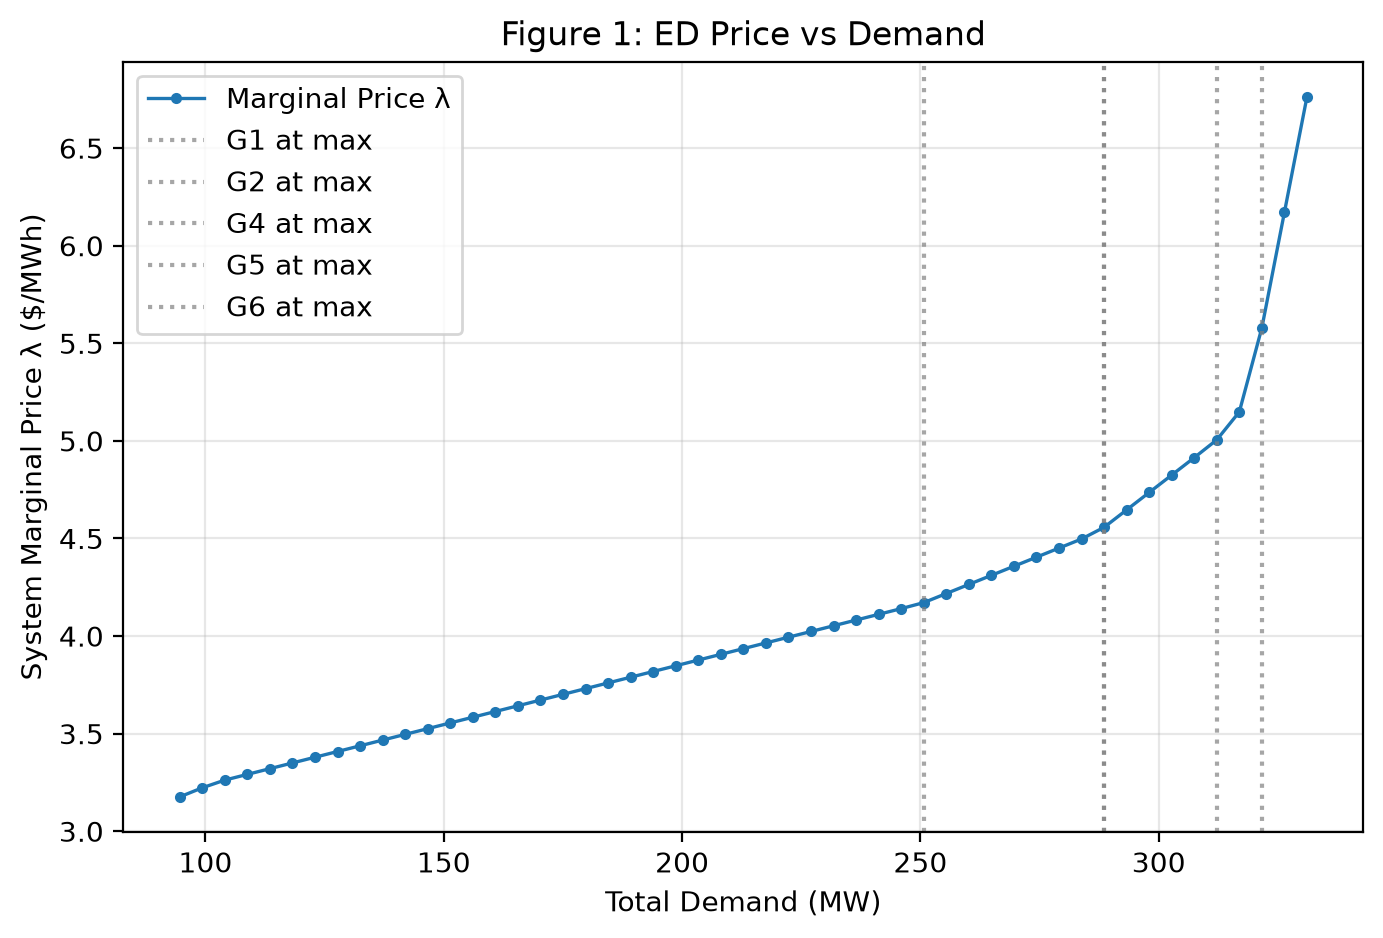
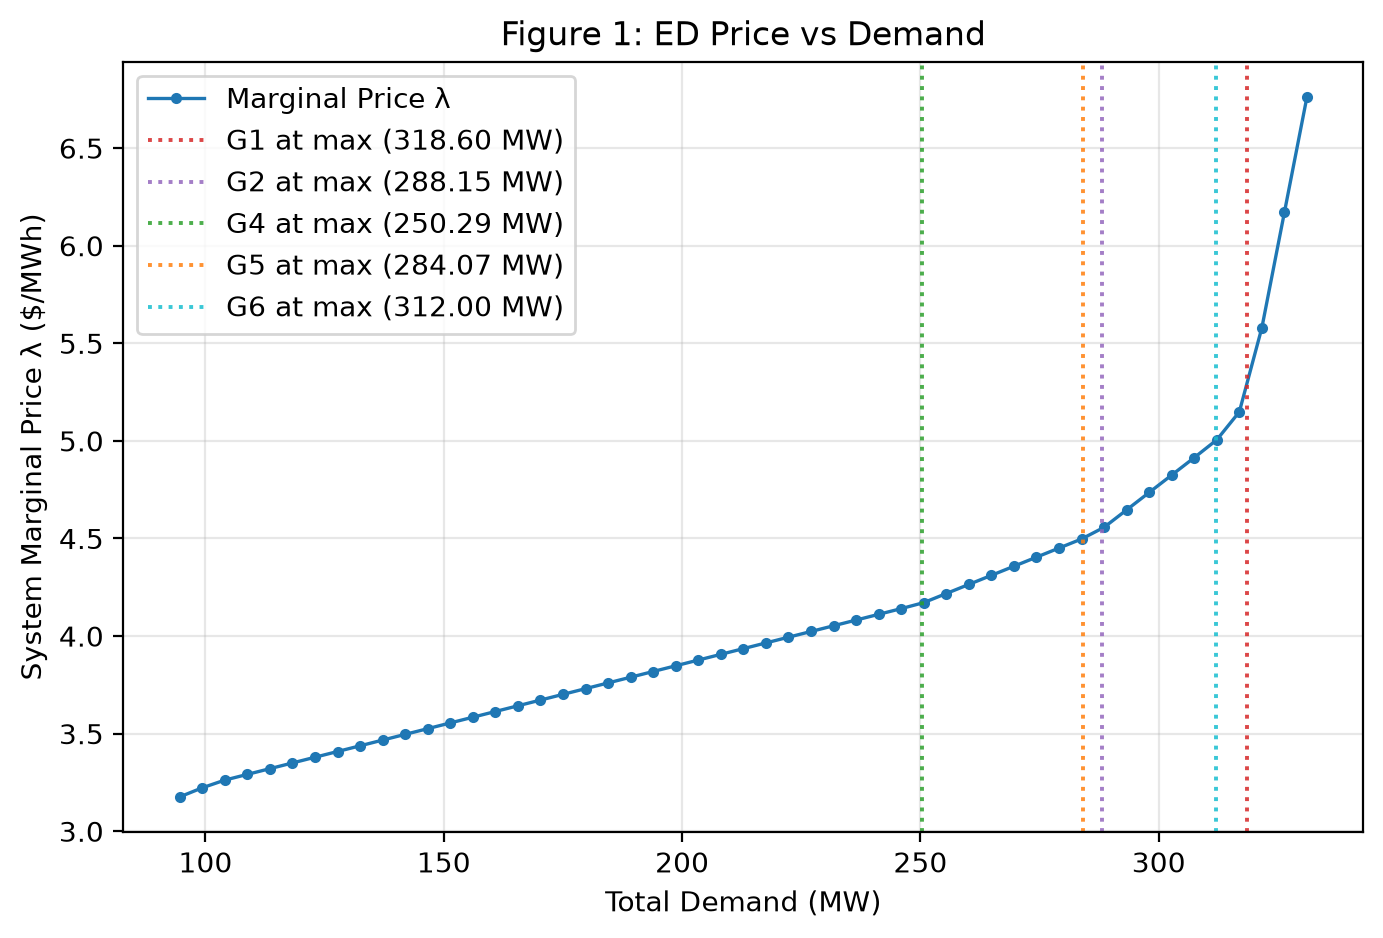
Correct report numbers, kink markers and wording

diff --git a/report/results.tex b/report/results.tex
@@ -14,7 +14,7 @@ Table~\ref{tab:validation} compares our custom solvers (the primal active-set QP
 \input{../results/validation_table.tex}
 \end{table}
 
-Across all scenarios, our active-set solver agrees with the reference solution to high numerical precision. In the uncongested base case and ED problem, the active-set solver achieves primal errors $\max |\Delta x| \le 4.27 \times 10^{-8}$ and dual errors $\max |\Delta \lambda| \le 8.59 \times 10^{-10}$, with KKT stationarity residuals on the order of $10^{-11}$. In the congested scenario (ratings $\times 0.75$), the active-set solver matches the reference solution with primal deviation $\max |\Delta x| = 9.80 \times 10^{-6}$, dual deviation $\max |\Delta \lambda| = 8.86 \times 10^{-6}$, and KKT residual $9.55 \times 10^{-12}$. The lambda-iteration solver solves the ED problem to $\max |\Delta x| = 8.77 \times 10^{-7}$ in 33 bisection iterations.
+Across all scenarios, our active-set solver agrees with the reference solution to high numerical precision. In the uncongested base case, the active-set solver achieves primal error $\max |\Delta x| = 4.27 \times 10^{-8}$ and dual error $\max |\Delta \lambda| = 8.59 \times 10^{-10}$, with a KKT stationarity residual of $2.40 \times 10^{-11}$. On the Economic Dispatch problem, it achieves $\max |\Delta x| = 8.77 \times 10^{-7}$ and $\max |\Delta \lambda| = 4.00 \times 10^{-10}$ with a KKT residual of $2.40 \times 10^{-11}$. In the congested scenario (ratings $\times 0.75$), the active-set solver matches the reference solution with primal deviation $\max |\Delta x| = 9.80 \times 10^{-6}$, dual deviation $\max |\Delta \lambda| = 8.86 \times 10^{-6}$, and KKT residual $9.55 \times 10^{-12}$. The lambda-iteration solver solves the ED problem with $\max |\Delta x| = 8.77 \times 10^{-7}$ and $\max |\Delta \lambda| = 4.31 \times 10^{-10}$ in 33 bisection iterations, with a KKT residual of $5.07 \times 10^{-9}$.
 
 When initialized from the default \texttt{feasible\_start()} point, the base DC-OPF and ED problems converge in a single iteration because the initial point is already the unconstrained global minimizer. To evaluate the active-set solver's ability to perform active-set identification from a distant state, we compute non-optimal feasible starting points via linear programming ($\min -g^T x$). From these non-optimal points, the active-set solver takes 13 iterations on the base case, 14 iterations on the $0.75\times$ congested case, and 11 iterations on ED, systematically adjusting the working set until optimality is proven.
 
@@ -41,11 +41,12 @@ Figure~\ref{fig:price_demand} presents the system marginal price $\lambda$ as to
 
 The marginal price curve exhibits distinct slope discontinuities (kinks) at specific demand thresholds where individual generators reach their maximum output capacity $P_{\max}$ and are clamped:
 \begin{itemize}
-    \item At $D = 260.15\text{ MW}$, Generator 4 reaches its upper limit $P_{\max, 4} = 55.0\text{ MW}$.
-    \item At $D = 288.53\text{ MW}$, Generator 5 reaches $P_{\max, 5} = 30.0\text{ MW}$.
-    \item At $D = 302.72\text{ MW}$, Generator 2 reaches $P_{\max, 2} = 80.0\text{ MW}$.
-    \item At $D = 321.64\text{ MW}$, Generators 1 and 6 hit their respective bounds ($P_{\max, 1} = 80.0\text{ MW}$ and $P_{\max, 6} = 40.0\text{ MW}$).
-    \item Generator 3 never reaches its capacity limit ($P_{\max, 3} = 50.0\text{ MW}$) within this demand range.
+    \item At $D = 250.29\text{ MW}$, Generator 4 reaches its upper limit $P_{\max, 4} = 55.0\text{ MW}$.
+    \item At $D = 284.07\text{ MW}$, Generator 5 reaches $P_{\max, 5} = 30.0\text{ MW}$.
+    \item At $D = 288.15\text{ MW}$, Generator 2 reaches $P_{\max, 2} = 80.0\text{ MW}$.
+    \item At $D = 312.00\text{ MW}$, Generator 6 reaches $P_{\max, 6} = 40.0\text{ MW}$.
+    \item At $D = 318.60\text{ MW}$, Generator 1 reaches $P_{\max, 1} = 80.0\text{ MW}$.
+    \item Generator 3 reaches its capacity limit ($P_{\max, 3} = 50.0\text{ MW}$) only at $D = 335.00\text{ MW}$, the total system generation capacity, which lies beyond the sweep's $331.10\text{ MW}$ maximum.
 \end{itemize}
 Whenever a generator reaches $P_{\max}$, it can no longer provide incremental energy. The system-wide incremental cost slope $\left(\sum_{i \notin \mathcal{A}} \frac{1}{2c_i}\right)^{-1}$ increases stepwise, steepening the price trajectory while preserving continuity in $\lambda$.
 
@@ -60,9 +61,9 @@ Figure~\ref{fig:cost_spread} plots total operating cost and LMP spread as the li
 \label{fig:cost_spread}
 \end{figure}
 
-For ratings down to $0.765\times$, the network is completely uncongested; no line flows reach their limits, operating cost remains at $\$565.21\text{/h}$, and LMPs are uniform across all 30 buses ($\lambda = 3.7892\text{ \$/MWh}$). At rating scale $0.760$, line 6--8 becomes the first binding transmission constraint. To prevent line overload, the solver redispatches generation, causing system cost to rise to $\$565.22\text{/h}$ and LMPs to separate ($3.7885$ to $3.8117\text{ \$/MWh}$).
+For ratings down to $0.765\times$, the network is completely uncongested; no line flows reach their limits, operating cost remains at $\$565.21\text{/h}$, and LMPs are uniform across all 30 buses ($\lambda = 3.7892\text{ \$/MWh}$). The first line (6--8) becomes binding at a rating scale of about 0.764 (the sweep is uncongested at 0.765 and congested at 0.760). At rating scale $0.760$, system operating cost is $\$565.22\text{/h}$ and LMPs range from $3.7745$ to $4.0017\text{ \$/MWh}$.
 
-At rating scale $0.750$, two transmission lines bind simultaneously (branches 6--8 and 25--27). System cost increases to $\$565.97\text{/h}$, and the LMP spread widens from $3.6524$ to $7.1828\text{ \$/MWh}$. At rating scale $0.720$, four lines become constrained (branches 6--8, 15--23, 21--22, and 25--27), forcing extensive out-of-merit generation that elevates operating cost to $\$589.58\text{/h}$ and produces an extreme price spread of $3.0185$ to $39.6548\text{ \$/MWh}$.
+At rating scale $0.750$, two transmission lines bind simultaneously (branches 6--8 and 25--27). System cost increases to $\$565.97\text{/h}$, and the LMP spread widens from $3.6524$ to $7.1828\text{ \$/MWh}$. At rating scale $0.720$, four lines become constrained (branches 6--8, 15--23, 21--22, and 25--27), forcing extensive out-of-merit generation that elevates operating cost to $\$589.58\text{/h}$ and produces an extreme price range of $3.0157$ to $39.6485\text{ \$/MWh}$.
 
 \begin{figure}[htbp]
 \centering
@@ -84,4 +85,4 @@ Figure~\ref{fig:convergence} displays the objective function values across itera
 \label{fig:convergence}
 \end{figure}
 
-In accordance with theoretical guarantees for Algorithm~16.3 \cite{nocedal2006}, the objective value decreases strictly monotonically at every iteration across all test scenarios. The uncongested base case converges in 13 iterations, the congested case ($0.75\times$) converges in 14 iterations after incorporating binding transmission constraints into the active set, and the ED case converges in 11 iterations. In each case, once the optimal active constraint manifold is identified, the subproblem step $p_k$ drops to zero, and dual multiplier non-negativity certifies optimality.
+In accordance with theoretical guarantees for Algorithm~16.3 \cite{nocedal2006}, the objective is non-increasing; the flat steps are iterations where a constraint with a negative multiplier is dropped from the working set without moving $x$, and every other iteration strictly decreases the objective. The uncongested base case converges in 13 iterations, the congested case ($0.75\times$) converges in 14 iterations after incorporating binding transmission constraints into the active set, and the ED case converges in 11 iterations. In each case, once the optimal active constraint manifold is identified, the subproblem step $p_k$ drops to zero, and dual multiplier non-negativity certifies optimality.

diff --git a/report/formulation.tex b/report/formulation.tex
@@ -92,7 +92,7 @@ Each row of the branch-bus incidence matrix $C$ contains exactly one $+1$ and on
 \begin{equation}
     B_{\text{bus}} \mathbf{1} = C^T \operatorname{diag}(1/x) C \mathbf{1} = 0
 \end{equation}
-For any connected network, the nullspace of $B_{\text{bus}}$ is exactly $\operatorname{span}(\mathbf{1})$, meaning $B_{\text{bus}}$ has rank $n_{\text{bus}} - 1 = 29$. Without an angular reference, the nodal balance equations (\ref{eq:dcopf_balance}) are invariant under an arbitrary global shift $\theta \leftarrow \theta + \phi \mathbf{1}$. Fixing the reference angle $\theta_{\text{ref}} = \theta_1 = 0$ removes this degree of freedom and establishes full column rank for the equality constraint matrix $A_{\text{eq}}$.
+For any connected network, the nullspace of $B_{\text{bus}}$ is exactly $\operatorname{span}(\mathbf{1})$, meaning $B_{\text{bus}}$ has rank $n_{\text{bus}} - 1 = 29$. Without an angular reference, the nodal balance equations (\ref{eq:dcopf_balance}) are invariant under an arbitrary global shift $\theta \leftarrow \theta + \phi \mathbf{1}$. Fixing the reference angle $\theta_{\text{ref}} = \theta_1 = 0$ removes this degree of freedom and makes the 31 rows of $A_{\text{eq}}$ linearly independent (full row rank).
 
 \subsection{KKT Multipliers and Locational Marginal Prices}
 Under our project's Lagrangian definition:
@@ -109,7 +109,7 @@ By the sensitivity theorem of convex programming \cite{boyd2004}, the vector of 
 \begin{equation}
     \lambda_k = \frac{\partial q^*}{\partial b_{\text{eq}, k}}
 \end{equation}
-Because the first 30 equality rows correspond to bus real power balance $b_{\text{eq}, k} = d_k$, multiplier $\lambda_k$ ($k=1,\dots,30$) is the exact marginal cost of supplying an incremental megawatt of load at bus $k$---the Locational Marginal Price ($\lambda_k > 0$). Row 31 corresponds to $\theta_1 = 0$, whose multiplier $\lambda_{31} \approx 0$ enforces the reference angle and carries no price interpretation.
+Because the first 30 equality rows correspond to bus real power balance $b_{\text{eq}, k} = d_k$, multiplier $\lambda_k$ ($k=1,\dots,30$) is the exact marginal cost of supplying an incremental megawatt of load at bus $k$---the Locational Marginal Price (the LMPs are positive in all our test cases). Row 31 corresponds to $\theta_1 = 0$, whose multiplier $\lambda_{31} \approx 0$ enforces the reference angle and carries no price interpretation.
 
 \subsection{Worked Base-Case Check: Equal Marginal Costs}
 When the transmission network is uncongested (base case with $\text{rate\_scale} = 1.0$), no transmission constraints or generator bounds are active ($\mu = 0$). Differentiating the Lagrangian with respect to generator output $P_i$ located at bus $k$ yields:
@@ -118,11 +118,11 @@ When the transmission network is uncongested (base case with $\text{rate\_scale}
 \end{equation}
 Evaluating this marginal cost check at the optimal base-case dispatch from our solver:
 \begin{itemize}
-    \item Generator 1 ($P_1 = 44.73\text{ MW}$): $\text{MC}_1 = 2.000 + 2(0.02000)(44.73) = 3.7892\text{ \$/MWh}$
-    \item Generator 2 ($P_2 = 58.26\text{ MW}$): $\text{MC}_2 = 1.750 + 2(0.01750)(58.26) = 3.7892\text{ \$/MWh}$
-    \item Generator 3 ($P_3 = 22.31\text{ MW}$): $\text{MC}_3 = 1.000 + 2(0.06250)(22.31) = 3.7892\text{ \$/MWh}$
-    \item Generator 4 ($P_4 = 32.33\text{ MW}$): $\text{MC}_4 = 3.250 + 2(0.00834)(32.33) = 3.7892\text{ \$/MWh}$
-    \item Generator 5 ($P_5 = 15.78\text{ MW}$): $\text{MC}_5 = 3.000 + 2(0.02500)(15.78) = 3.7892\text{ \$/MWh}$
-    \item Generator 6 ($P_6 = 15.78\text{ MW}$): $\text{MC}_6 = 3.000 + 2(0.02500)(15.78) = 3.7892\text{ \$/MWh}$
+    \item Generator 1 ($P_1 = 44.7299\text{ MW}$): $\text{MC}_1 = 2.000 + 2(0.02000)(44.7299) = 3.7892\text{ \$/MWh}$
+    \item Generator 2 ($P_2 = 58.2628\text{ MW}$): $\text{MC}_2 = 1.750 + 2(0.01750)(58.2628) = 3.7892\text{ \$/MWh}$
+    \item Generator 3 ($P_3 = 22.3136\text{ MW}$): $\text{MC}_3 = 1.000 + 2(0.06250)(22.3136) = 3.7892\text{ \$/MWh}$
+    \item Generator 4 ($P_4 = 32.3259\text{ MW}$): $\text{MC}_4 = 3.250 + 2(0.00834)(32.3259) = 3.7892\text{ \$/MWh}$
+    \item Generator 5 ($P_5 = 15.7839\text{ MW}$): $\text{MC}_5 = 3.000 + 2(0.02500)(15.7839) = 3.7892\text{ \$/MWh}$
+    \item Generator 6 ($P_6 = 15.7839\text{ MW}$): $\text{MC}_6 = 3.000 + 2(0.02500)(15.7839) = 3.7892\text{ \$/MWh}$
 \end{itemize}
 All six generators operate at an identical marginal cost of $3.7892\text{ \$/MWh}$, precisely matching the system LMP across all 30 buses.

diff --git a/report/main.tex b/report/main.tex
@@ -40,9 +40,9 @@ Prices (LMPs), equal at every bus until line congestion causes them to separate.
 \input{results}
 
 \section{Conclusion}
-In this project, we designed, implemented, and thoroughly evaluated an end-to-end mathematical optimization framework for power system operations on the IEEE 30-bus network. By implementing pure NumPy solvers---a lambda-iteration bisection solver for unconstrained Economic Dispatch and a primal active-set quadratic programming solver for DC Optimal Power Flow---we achieved machine-precision parity with commercial-grade interior-point solvers (CVXPY/Clarabel) without relying on external optimization libraries during active-set iterations.
+In this project, we designed, implemented, and thoroughly evaluated an end-to-end mathematical optimization framework for power system operations on the IEEE 30-bus network. By implementing pure NumPy solvers---a lambda-iteration bisection solver for Economic Dispatch (without network constraints) and a primal active-set quadratic programming solver for DC Optimal Power Flow---we achieved agreement to within about 1e-5 with the open-source interior-point solver Clarabel (via CVXPY) without relying on external optimization libraries during active-set iterations.
 
-Our experimental investigations demonstrated the critical role of network topology and thermal branch ratings in wholesale electricity pricing. When transmission capacity is unconstrained, generation dispatches strictly according to the equal incremental cost rule, producing a uniform system-wide price of $\$3.7892\text{/MWh}$. As branch ratings are constrained, transmission bottlenecks first emerge on branch 6--8 at a scale factor of $0.760$, leading to pronounced locational price separation across the network, reaching up to $\$39.65\text{/MWh}$ under heavy congestion ($0.720\times$), before encountering strict system-wide infeasibility at a rating factor of $0.7167$. Furthermore, our second-order Taylor sensitivity analysis demonstrated that finite-difference cost perturbations match the theoretical point derivative down to $10^{-6}$, confirming both the physical accuracy and economic integrity of our dual multiplier conventions.
+Our experimental investigations demonstrated the critical role of network topology and thermal branch ratings in wholesale electricity pricing. When transmission capacity is unconstrained, generation dispatches strictly according to the equal incremental cost rule, producing a uniform system-wide price of $\$3.7892\text{/MWh}$. As branch ratings are constrained, transmission bottlenecks first emerge on branch 6--8 at a scale factor of about 0.764, leading to pronounced locational price separation across the network, reaching up to $\$39.65\text{/MWh}$ under heavy congestion ($0.720\times$), before encountering strict system-wide infeasibility at a rating factor of $0.7167$. Furthermore, our second-order Taylor sensitivity analysis demonstrated that finite-difference cost perturbations match the theoretical point derivative down to $10^{-6}$, confirming both the physical accuracy and economic integrity of our dual multiplier conventions.
 
 \begin{thebibliography}{9}
 \bibitem{nocedal2006}

diff --git a/experiments/plots.py b/experiments/plots.py
@@ -43,22 +43,26 @@ def fig1_price_vs_demand() -> None:
     fig, ax = plt.subplots(figsize=(8, 5))
     ax.plot(df["demand_mw"], df["lambda"], "o-", markersize=3, linewidth=1.2, label="Marginal Price λ")
 
-    # Mark the kinks where generators reach their P_max
+    # Compute analytical kinks where generators reach their P_max
     from experiments.common import get_case
     case = get_case()
-    for i, pmax in enumerate(case.p_max):
-        col = f"P{i+1}"
-        if col in df.columns:
-            hit = df[df[col].astype(float) >= pmax - 1e-6]
-            if not hit.empty:
-                d_val = float(hit.iloc[0]["demand_mw"])
-                ax.axvline(
-                    d_val,
-                    linestyle=":",
-                    color="gray",
-                    alpha=0.7,
-                    label=f"G{i+1} at max",
-                )
+    d_min = float(df["demand_mw"].min())
+    d_max = float(df["demand_mw"].max())
+
+    colors = ["tab:red", "tab:purple", "tab:brown", "tab:green", "tab:orange", "tab:cyan"]
+    for j in range(len(case.gen_bus)):
+        lam_j = case.b[j] + 2.0 * case.c[j] * case.p_max[j]
+        p_alloc = np.clip((lam_j - case.b) / (2.0 * case.c), case.p_min, case.p_max)
+        D_j = float(np.sum(p_alloc))
+        if d_min <= D_j <= d_max:
+            ax.axvline(
+                D_j,
+                linestyle=":",
+                color=colors[j % len(colors)],
+                alpha=0.85,
+                linewidth=1.4,
+                label=f"G{j + 1} at max ({D_j:.2f} MW)",
+            )
 
     ax.set_xlabel("Total Demand (MW)")
     ax.set_ylabel("System Marginal Price λ ($/MWh)")

diff --git a/README.md b/README.md
@@ -20,7 +20,7 @@ The key result: Lagrange multipliers of the balance constraints are
 electricity prices (Locational Marginal Prices), equal everywhere until
 lines congest, then they split apart.
 
-**Data source:** The IEEE 30-bus test case (`data/case30.m`) is adapted from the MATPOWER distribution \cite{zimmerman2011}.
+**Data source:** The IEEE 30-bus test case (`data/case30.m`) is adapted from the MATPOWER distribution (R. D. Zimmerman et al., MATPOWER, IEEE Trans. Power Systems, 2011).
 
 ## Requirements
 
